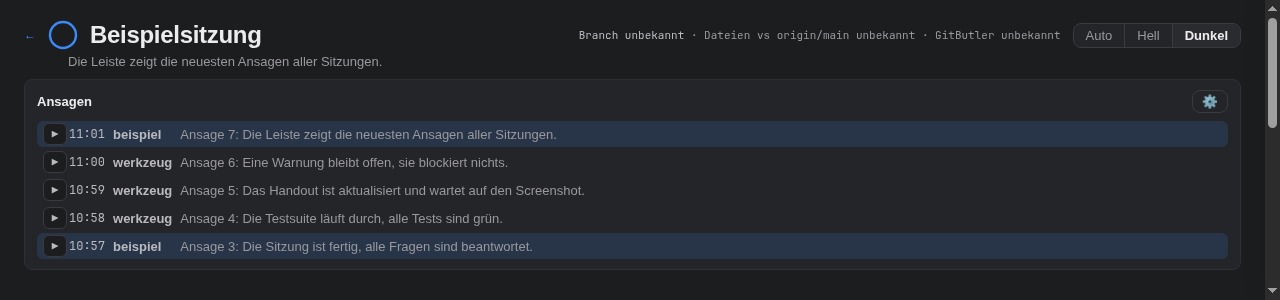
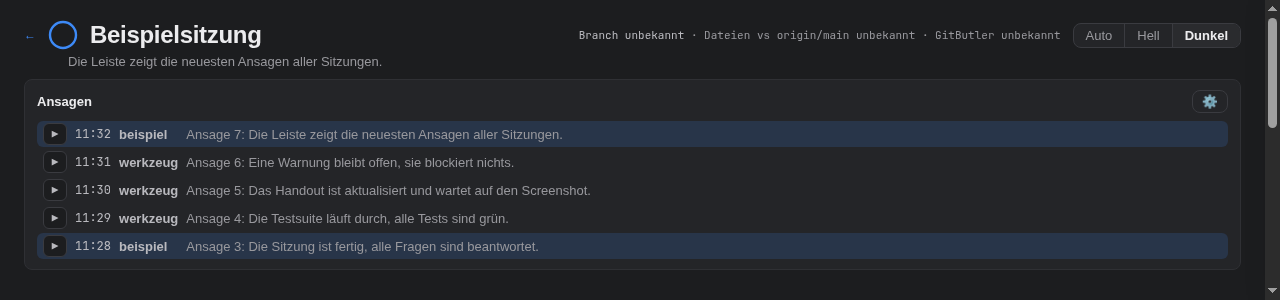
#18: Fallback ohne Web Locks spricht nicht doppelt, Abstand der Leiste
Refs #18

diff --git a/liste.test.ts b/liste.test.ts
@@ -270,3 +270,88 @@ test("sollSprechen: ohne localStorage (sprecher und gesprochenBis null) entschei
   assert.equal(sollSprechen({ ...SPRECHEN, istLeiter: true }), true);
   assert.equal(sollSprechen({ ...SPRECHEN, istLeiter: false }), false);
 });
+
+/**
+ * Startet die Uebersicht mit Attrappen fuer Sprachausgabe, Ereignisquelle, Speicher und Web Locks. `sperre` ist "fehlt"
+ * (kein navigator.locks, der Fallback) oder "abgelehnt" (der Lock wird verweigert, der .catch-Zweig greift).
+ */
+async function ansagenLauf(sperre: "fehlt" | "abgelehnt") {
+  const gesprochen: string[] = [];
+  const klicks: Array<(e: unknown) => void> = [];
+  const quellen: Array<Record<string, () => void>> = [];
+  const speicher = new Map<string, string>();
+  let ansagen: unknown[] = [];
+  const wurzel = { innerHTML: "", querySelector: () => null, querySelectorAll: () => [], addEventListener: () => {}, contains: () => false };
+  const doc = {
+    getElementById: () => wurzel, documentElement: { dataset: {} }, visibilityState: "visible", activeElement: null, title: "",
+    addEventListener: (typ: string, f: (e: unknown) => void) => { if (typ === "click") klicks.push(f); },
+    removeEventListener: () => {}, querySelector: () => null, querySelectorAll: () => [],
+  };
+  const antwort = (b: unknown, ok = true) => ({ ok, status: ok ? 200 : 404, json: async () => b });
+  const g: Record<string, unknown> = {
+    document: doc,
+    location: { pathname: "/", search: "" },
+    localStorage: {
+      getItem: (k: string) => speicher.get(k) ?? null,
+      setItem: (k: string, v: string) => { speicher.set(k, String(v)); },
+      removeItem: (k: string) => { speicher.delete(k); },
+    },
+    speechSynthesis: { speak: (u: { text: string }) => { gesprochen.push(u.text); }, cancel: () => {}, getVoices: () => [] },
+    SpeechSynthesisUtterance: class { text: string; volume = 1; constructor(t: string) { this.text = t; } },
+    EventSource: function () {
+      const hoert: Record<string, () => void> = {};
+      quellen.push(hoert);
+      return { addEventListener: (typ: string, f: () => void) => { hoert[typ] = f; }, close: () => {} };
+    },
+    navigator: sperre === "fehlt" ? {} : { locks: { request: () => Promise.reject(new Error("verweigert")) } },
+    BroadcastChannel: class { onmessage: unknown = null; postMessage() {} },
+    setInterval: () => 1, clearInterval: () => {}, setTimeout: () => 1,
+    addEventListener: () => {},
+    fetch: async (url: string) => {
+      if (url === "/api/ansagen") return antwort({ ansagen });
+      if (url === "/api/einstellungen") return antwort({ vorlesen: true, stimme: null });
+      if (url === "/api/liste") return antwort({ wurzel: "/w", sitzungen: [] });
+      return antwort(null, false);
+    },
+  };
+  g.globalThis = g;
+  vm.runInNewContext(readFileSync(path.join(import.meta.dirname, "ansicht", "live-plan.js"), "utf8"), g);
+  const warte = async () => { for (let i = 0; i < 20; i++) await new Promise((r) => setImmediate(r)); };
+  await warte();
+  return {
+    /** Gesprochene Texte; die Freischaltung spricht stumm einen leeren Text und zaehlt nicht. */
+    gesprochen: () => gesprochen.filter((t) => t !== ""),
+    sprecher: () => speicher.get("live-plan.sprecher") ?? null,
+    /** Ein Klick auf die Seite: dieser Tab wird Sprecher und schaltet die Sprachausgabe frei. */
+    klick: () => { klicks.forEach((f) => f({ target: { closest: () => null, hasAttribute: () => false } })); },
+    /** Wie das Schliessen des Sprecher-Tabs: sein Schluessel verschwindet. */
+    sprecherSchliessen: () => { speicher.delete("live-plan.sprecher"); },
+    /** Eine neue Ansage kommt an: Ereignis geaendert, dann Laden und Sprechen. */
+    neueAnsage: async (zeit: number) => {
+      ansagen = [{ v: 1, zeit, id: `a${zeit}`, repo: "r", text: "Neu", quelle: "test" }];
+      quellen.forEach((h) => h.geaendert?.());
+      await warte();
+    },
+  };
+}
+
+// Ein Tab ohne Web Locks lauscht selbst, leitet aber nicht (#18, Runde 3, R1): ohne Sprecher-Tab spricht keiner.
+test("Fallback ohne Lock: der zuletzt geklickte Tab spricht die neue Ansage (Gegenprobe)", async () => {
+  for (const sperre of ["fehlt", "abgelehnt"] as const) {
+    const lauf = await ansagenLauf(sperre);
+    lauf.klick();
+    assert.notEqual(lauf.sprecher(), null, sperre);
+    await lauf.neueAnsage(1000);
+    assert.equal(lauf.gesprochen().length, 1, sperre);
+  }
+});
+
+test("Fallback ohne Lock: ohne Sprecher-Tab spricht kein Tab, auch nicht der freigeschaltete", async () => {
+  for (const sperre of ["fehlt", "abgelehnt"] as const) {
+    const lauf = await ansagenLauf(sperre);
+    lauf.klick();
+    lauf.sprecherSchliessen();
+    await lauf.neueAnsage(1000);
+    assert.deepEqual(lauf.gesprochen(), [], sperre);
+  }
+});

diff --git a/ansicht/live-plan.css b/ansicht/live-plan.css
@@ -251,7 +251,7 @@ body { margin: 0; background: var(--s1); font-family: var(--font); }
 .an-leiste { display: grid; gap: 8px; margin: 0 0 12px; padding: 10px 12px; border: 1px solid var(--line-1); border-radius: var(--r-s); background: var(--s2); }
 .an-leiste-kopf { display: flex; gap: 10px; align-items: center; min-width: 0; }
 .an-leiste-kopf h2 { margin: 0; font-family: var(--font-kopf); font-size: 13px; font-weight: 700; color: var(--ink-1); }
-.an-leiste ol { display: grid; grid-template-columns: 24px auto auto minmax(0, 1fr); gap: 2px 8px; margin: 0; padding: 0; list-style: none; }
+.an-leiste ol { display: grid; grid-template-columns: 30px auto auto minmax(0, 1fr); gap: 2px 8px; margin: 0; padding: 0; list-style: none; }
 .an-zeile { display: grid; grid-column: 1 / -1; grid-template-columns: subgrid; align-items: center; min-width: 0; padding: 2px 6px; border-radius: 6px; }
 .an-zeile.an-eigen { background: color-mix(in srgb, var(--l1) 16%, transparent); }
 .an-zeile .an-spiel { width: 24px; height: 22px; padding: 0; border: 1px solid var(--line-2); border-radius: 6px; background: var(--s1); font-size: 11px; }

diff --git a/ansicht/live-plan.js b/ansicht/live-plan.js
@@ -3057,16 +3057,15 @@
         ladeEinstellungen();
         lauscheAnsagen();
         return new Promise(function () { /* haelt den Lock, bis der Tab geschlossen wird */ });
-      }).catch(function () { istLeiter = true; lauscheAnsagen(); });
+      }).catch(function () { lauscheAnsagen(); });
     } else {
-      istLeiter = true;
       lauscheAnsagen();
     }
     doc.addEventListener("click", ansageFreigeben, true);
     doc.addEventListener("keydown", ansageFreigeben, true);
     doc.addEventListener("visibilitychange", function () { if (doc.visibilityState === "visible") sprecherSetzen(); });
     // Schliesst der Sprecher, faellt das Sprechen an den Leiter-Tab (ohne Schluessel).
-    G.onpagehide = function () { if (lies(SCHLUESSEL_SPRECHER) === TAB) vergiss(SCHLUESSEL_SPRECHER); };
+    G.addEventListener("pagehide", function () { if (lies(SCHLUESSEL_SPRECHER) === TAB) vergiss(SCHLUESSEL_SPRECHER); });
     doc.addEventListener("keydown", function (e) {
       if (e.key !== "Escape" || !einstAuf) return;
       einstAuf = false;

diff --git a/host.test.ts b/host.test.ts
@@ -275,6 +275,7 @@ async function montiere(pfad: string, takte = 0): Promise<string> {
       addEventListener: () => {}, removeEventListener: () => {}, querySelector: () => null, querySelectorAll: () => [], title: "",
     },
     location: { pathname: pfad, search: "" },
+    addEventListener: () => {},
     setInterval: (f: () => void, ms: number) => (ms === 15000 && intervalle.push(f), 1), clearInterval: () => {}, setTimeout: () => 1,
     fetch: async (url: string) => {
       const antwort = (b: unknown, ok = true) => ({ ok, status: ok ? 200 : 404, json: async () => b });

diff --git a/SKILL.md b/SKILL.md
@@ -286,8 +286,11 @@ neuesten Ansage; Vorlesen an/aus und die Stimme stehen im Menue ⚙ und zentral 
 Auf jeder Sitzungsseite gilt dasselbe: neue Ansagen aller Sitzungen werden dort ebenfalls vorgelesen, und oben
 unter dem Kopf steht die Leiste Ansagen mit den letzten fuenf, neueste zuerst; die Zeilen der eigenen Sitzung
 sind hervorgehoben. Mehrere Tabs teilen sich die Verbindung: einer haelt `GET /api/ereignisse`, die anderen bekommen
-Aenderungen ueber einen BroadcastChannel. Vorgelesen wird nur im Sprecher-Tab (der zuletzt bediente, ohne Sprecher der
-Leiter-Tab), jede Ansage genau einmal; ohne Lock oder BroadcastChannel (z. B. LAN-IP) hat jeder Tab seine eigene Verbindung.
+Aenderungen ueber einen BroadcastChannel. Vorgelesen wird nur im Sprecher-Tab (der zuletzt bediente, ohne Sprecher der Leiter-Tab), jede Ansage genau einmal.
+Ohne Web Locks (z. B. LAN-IP, Tailscale, `.local` oder ohne sicheren Kontext) lauscht jeder Tab selbst; gesprochen wird
+dann nur im zuletzt geklickten Tab, und schliesst der, schweigt es bis zum naechsten Klick oder Tabwechsel. Dort hat
+jeder Sitzungstab zwei Dauerverbindungen; ab etwa drei Sitzungstabs stockt der Browser (HTTP/1.1, 6 je Host). Ueber
+`localhost` (`live-plan open`) zeigte sich das in unseren Laeufen nicht. Siehe #20.
 
 ## Grenzen
 

diff --git a/README.md b/README.md
@@ -127,8 +127,11 @@ ist das der Übersicht. Eine neue Ansage zeichnet nur die Leiste neu, nicht den 
 ohne Leiste und ohne Ansagen.
 Mehrere Tabs teilen sich die Verbindung: ein Tab hält `GET /api/ereignisse`, die anderen bekommen Änderungen über einen
 BroadcastChannel. Vorgelesen wird nur im Sprecher-Tab, also dem, den der Nutzer zuletzt bedient hat (ohne Sprecher im
-Leiter-Tab), und jede Ansage genau einmal. Ohne Lock oder BroadcastChannel (etwa über eine LAN-IP) hält jeder Tab seine eigene
-Verbindung, und das Sprechen bleibt trotzdem bei einem Tab.
+Leiter-Tab), und jede Ansage genau einmal. Ohne Web Locks (etwa über eine LAN-IP, Tailscale, `.local` oder ohne sicheren
+Kontext) lauscht jeder Tab selbst; gesprochen wird dann nur im zuletzt geklickten Tab, und schließt der, schweigt es bis
+zum nächsten Klick oder Tabwechsel. Dort hält jeder Sitzungstab zwei Dauerverbindungen; ab etwa drei Sitzungstabs stockt
+der Browser (HTTP/1.1, 6 Verbindungen je Host). Über `localhost` (`live-plan open`) zeigte sich das in unseren Läufen
+nicht. Siehe #20.
 Tests: `node --test ansagen.test.ts liste.test.ts server.test.ts` (brauchen bun), Mod: `claude plugin test mod`.
 
 ## Firstmate-Cockpit
